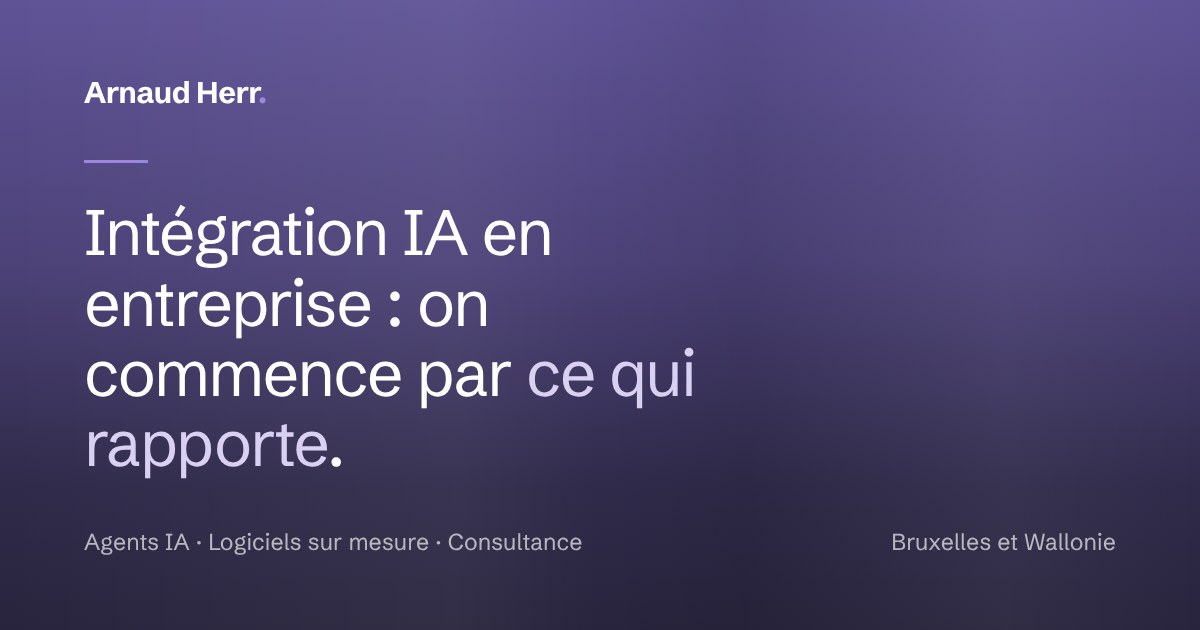
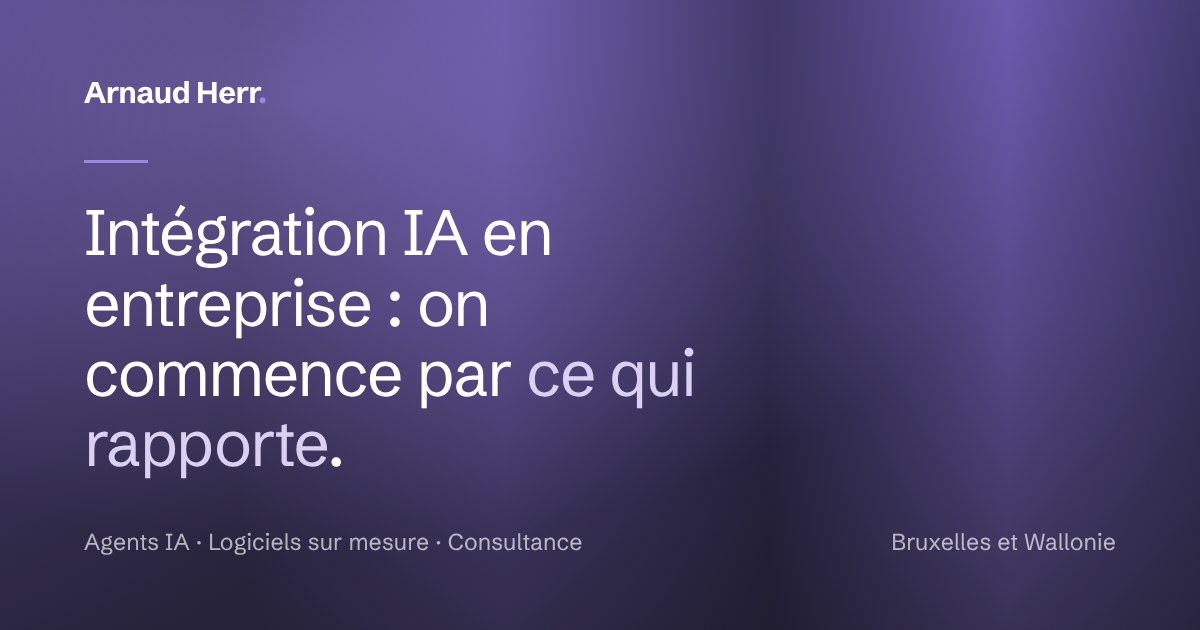
Publier master : dégradé de la publicité
Reprend l'arbre de master (d88abe4).

Claude-Session: https://claude.ai/code/session_01YBrAsT81dpjJmrzcXqB7eG

diff --git a/assets/site.css b/assets/site.css
@@ -30,31 +30,16 @@
     --brand-light:#FFFFFF;    /* texte et éléments sur fond sombre */
     --brand-on-accent:var(--brand-light); /* texte posé sur l'accent, à passer en sombre si l'accent est clair */
     --brand-shade:#201F27;    /* voile posé sur les photos */
-    /* dégradé des en-têtes de page, repris de la publicité magazine :
-       violet en haut, encre en bas, deux reflets verticaux discrets.
-       --brand-hero-top est sa teinte la plus claire : l'audit de contraste
-       ne lit que les couleurs unies, il mesure donc contre celle-ci. */
-    --brand-hero-top:#5F5396;
-    --grad-reflets:linear-gradient(90deg,transparent 0%,rgb(255 255 255/.045) 38%,transparent 50%,rgb(0 0 0/.07) 62%,rgb(255 255 255/.04) 84%,transparent 100%);
-    /* v1 : vertical, celui de la publicite */
-    --brand-hero:var(--grad-reflets),linear-gradient(180deg,var(--brand-hero-top) 0%,#4C4278 42%,#2F2A49 78%,#28243D 100%);
-    /* Variantes : les quatre teintes de la publicite, rien d'autre. Seule
-       la forme change (halos places differemment) pour que le fond ait l'air
-       organique d'un endroit a l'autre. Aucune ne monte plus clair que
-       --brand-hero-top, ce qui garde les contrastes. */
-    --v-clair:var(--brand-hero-top);--v-moyen:#4C4278;--v-sombre:#2F2A49;--v-nuit:#28243D;
-    --grad-v2:var(--grad-reflets),radial-gradient(70% 60% at 15% 8%,var(--v-clair),transparent 70%),
-              linear-gradient(135deg,var(--v-moyen) 0%,var(--v-sombre) 55%,var(--v-nuit) 100%);
-    --grad-v3:radial-gradient(80% 90% at 92% 0%,var(--v-clair),transparent 66%),
-              radial-gradient(60% 50% at 6% 100%,var(--v-moyen),transparent 70%),
-              linear-gradient(180deg,var(--v-sombre),var(--v-nuit));
-    --grad-v4:radial-gradient(55% 70% at 0% 100%,var(--v-clair),transparent 70%),
-              radial-gradient(50% 45% at 86% 12%,var(--v-moyen),transparent 72%),
-              linear-gradient(160deg,var(--v-sombre),var(--v-nuit));
-    --grad-v5:var(--grad-reflets),linear-gradient(0deg,var(--v-clair) 0%,var(--v-moyen) 40%,var(--v-sombre) 76%,var(--v-nuit) 100%);
-    --grad-v6:radial-gradient(85% 70% at 34% 46%,var(--v-clair),transparent 70%),
-              radial-gradient(42% 42% at 92% 92%,var(--v-moyen),transparent 72%),
-              linear-gradient(200deg,var(--v-sombre),var(--v-nuit));
+    /* Dégradé de la publicité magazine, recette exacte : une lueur lavande,
+       un assombrissement vers le bas, des bandes violettes verticales.
+       Les variantes data-fond ne déplacent que la lueur, l'angle et le
+       décalage des bandes : mêmes couleurs partout, forme différente. */
+    --ah-lx:25%;--ah-ly:15%;--ah-angle:90deg;--ah-largeur:100%;--ah-decalage:0%;
+    --brand-hero-top:#2F2950; /* couleur de secours de la publicité */
+    --brand-hero:
+      radial-gradient(ellipse at var(--ah-lx) var(--ah-ly),rgb(155 135 224/.45),rgb(155 135 224/0) 60%),
+      linear-gradient(180deg,rgb(23 22 28/0) 0%,rgb(23 22 28/.25) 50%,rgb(23 22 28/.6) 100%),
+      linear-gradient(var(--ah-angle),#4A3F7A 0%,#3B3360 20%,#5B4D96 42%,#2F2950 64%,#6B5BAE 84%,#433A70 100%);
     /* dégradé du bas de hero, repris tel quel de la référence.
        Remplacer #000 par une autre teinte pour le colorer. */
     --hero-overlay:linear-gradient(to top,#000,#000000fa 9.99%,#000000ec 19.07%,#000000d7 27.44%,#000000bd 35.26%,#0000009f 42.72%,#00000080,#00000060 57.28%,#00000042 64.74%,#00000028 72.56%,#00000013 80.93%,#00000005 90.01%,#0000);
@@ -1118,18 +1103,27 @@
   .page-hero .date-art time{color:var(--on-dark-88)}
 
   /* ---------- FONDS EN DEGRADE ----------
-     data-fond choisit la variante d'un en-tete ou d'un panneau. Les photos
-     ont ete retirees : ces panneaux les remplacent. Memes couleurs
-     partout, seule la forme varie. Le fond uni reste
-     --brand-hero-top sur les variantes sombres, pour que l'audit de
-     contraste mesure le pire cas. */
-  [data-fond]{background-color:var(--brand-hero-top)}
-  [data-fond="v1"]{background-image:var(--brand-hero)}
-  [data-fond="v2"]{background-image:var(--grad-v2)}
-  [data-fond="v3"]{background-image:var(--grad-v3)}
-  [data-fond="v4"]{background-image:var(--grad-v4)}
-  [data-fond="v5"]{background-image:var(--grad-v5)}
-  [data-fond="v6"]{background-image:var(--grad-v6)}
+     data-fond choisit la variante d'un en-tete ou d'un panneau (les photos
+     ont ete retirees). Les variables sont posees sur l'element lui-meme
+     pour que --brand-hero, calcule a la racine, ne les fige pas : d'ou la
+     recette repetee ici. Le contraste reel des textes sur ces fonds est
+     verifie par tools/contraste-degrades.js, qui mesure les pixels. */
+  [data-fond]{
+    background-color:var(--brand-hero-top);
+    background-image:
+      radial-gradient(ellipse at var(--ah-lx) var(--ah-ly),rgb(155 135 224/.45),rgb(155 135 224/0) 60%),
+      linear-gradient(180deg,rgb(23 22 28/0) 0%,rgb(23 22 28/.25) 50%,rgb(23 22 28/.6) 100%),
+      linear-gradient(var(--ah-angle),#4A3F7A 0%,#3B3360 20%,#5B4D96 42%,#2F2950 64%,#6B5BAE 84%,#433A70 100%);
+    background-size:100% 100%,100% 100%,var(--ah-largeur) 100%;
+    background-position:0 0,0 0,var(--ah-decalage) 0;
+  }
+  [data-fond="v1"]{--ah-lx:25%;--ah-ly:15%;--ah-angle:90deg;--ah-largeur:100%;--ah-decalage:0%}
+  [data-fond="v2"]{--ah-lx:78%;--ah-ly:8%;--ah-angle:90deg;--ah-largeur:150%;--ah-decalage:30%}
+  [data-fond="v3"]{--ah-lx:12%;--ah-ly:88%;--ah-angle:100deg;--ah-largeur:130%;--ah-decalage:70%}
+  [data-fond="v4"]{--ah-lx:58%;--ah-ly:38%;--ah-angle:80deg;--ah-largeur:170%;--ah-decalage:100%}
+  [data-fond="v5"]{--ah-lx:90%;--ah-ly:78%;--ah-angle:90deg;--ah-largeur:140%;--ah-decalage:50%}
+  [data-fond="v6"]{--ah-lx:40%;--ah-ly:5%;--ah-angle:95deg;--ah-largeur:200%;--ah-decalage:20%}
+
   /* Sur les panneaux en degrade, les textes secondaires passent a 88 % :
      a 70 %, ils ne tenaient pas le contraste sur la teinte la plus claire. */
   .mani footer,.mani footer a,.cta-in p{color:var(--on-dark-88)}

diff --git a/tools/contraste-degrades.js b/tools/contraste-degrades.js
@@ -1,0 +1,94 @@
+#!/usr/bin/env node
+/* Contraste des textes poses sur les fonds en degrade (data-fond).
+
+   tools/contraste.js ne lit que les couleurs de fond unies : il ne voit pas
+   les degrades. Ce script mesure les vrais pixels. Pour chaque bloc
+   data-fond, il masque les textes, photographie le fond, puis compare la
+   couleur de chaque texte au pixel LE PLUS CLAIR derriere lui (pire cas).
+
+     npx http-server . -p 8099 -s &
+     NODE_PATH=/opt/node22/lib/node_modules node tools/contraste-degrades.js
+
+   Seuils AA : 4,5 pour le texte courant, 3 pour le texte large (24 px, ou
+   18,66 px en gras). Les boutons, qui ont leur propre fond, sont ignores. */
+const { chromium } = require('playwright');
+const PAGES = require('fs').readFileSync(__dirname + '/contraste.js', 'utf8')
+  .match(/const PAGES=\[([^\]]*)\]/)[1].split(',').map(s => s.trim().replace(/'/g, '')).filter(Boolean);
+const BASE = 'http://localhost:8099/';
+
+function lum([r, g, b]) {
+  const f = c => (c /= 255) <= 0.03928 ? c / 12.92 : ((c + 0.055) / 1.055) ** 2.4;
+  return 0.2126 * f(r) + 0.7152 * f(g) + 0.0722 * f(b);
+}
+const ratio = (a, b) => { const [x, y] = [lum(a), lum(b)].sort((m, n) => n - m); return (x + 0.05) / (y + 0.05); };
+
+(async () => {
+  const b = await chromium.launch();
+  const p = await b.newPage({ viewport: { width: 1280, height: 900 }, deviceScaleFactor: 1 });
+  let echecs = 0;
+  const { PNG } = require('pngjs');
+  for (const path of PAGES) {
+    await p.goto(BASE + path, { waitUntil: 'load' });
+    await p.addStyleTag({ content: '*,*::before,*::after{transition:none!important;animation:none!important}[data-rv]{opacity:1!important;transform:none!important;filter:none!important}' });
+    const nb = await p.evaluate(() => document.querySelectorAll('[data-fond]').length);
+    const lignes = [];
+    for (let bi = 0; bi < nb; bi++) {
+      // Bloc amene dans la fenetre, textes releves puis masques : rien n'est
+      // redimensionne, la mise en page reste celle qui est mesuree.
+      const textes = await p.evaluate(bi => {
+        const bloc = document.querySelectorAll('[data-fond]')[bi];
+        bloc.scrollIntoView({ block: 'start' });
+        const out = [], walker = document.createTreeWalker(bloc, NodeFilter.SHOW_TEXT);
+        let n;
+        while ((n = walker.nextNode())) {
+          if (!n.textContent.trim()) continue;
+          const el = n.parentElement;
+          if (el.closest('.btn,svg,[hidden]')) continue;
+          const cs = getComputedStyle(el), r = document.createRange();
+          r.selectNodeContents(n);
+          for (const box of r.getClientRects()) {
+            if (!box.width || !box.height) continue;
+            out.push({ texte: n.textContent.trim().slice(0, 40), couleur: cs.color,
+              taille: parseFloat(cs.fontSize), gras: parseInt(cs.fontWeight) >= 700,
+              x: box.left, y: box.top, w: box.width, h: box.height });
+          }
+        }
+        bloc.querySelectorAll('*').forEach(e => {
+          e.dataset.c = '1'; e.style.setProperty('color', 'transparent', 'important');
+          e.style.setProperty('border-color', 'transparent', 'important');
+          e.style.setProperty('text-decoration-color', 'transparent', 'important');
+          e.style.setProperty('background-image', 'none', 'important');
+        });
+        bloc.querySelectorAll('.btn,img,svg').forEach(e => e.style.setProperty('visibility', 'hidden', 'important'));
+        return out;
+      }, bi);
+      const img = PNG.sync.read(await p.screenshot());
+      for (const t of textes) {
+        let clair = null, lmax = -1;
+        for (let y = Math.max(0, Math.floor(t.y)); y < Math.min(img.height, t.y + t.h); y += 2)
+          for (let x = Math.max(0, Math.floor(t.x)); x < Math.min(img.width, t.x + t.w); x += 2) {
+            const k = (y * img.width + x) * 4, px = [img.data[k], img.data[k + 1], img.data[k + 2]], l = lum(px);
+            if (l > lmax) { lmax = l; clair = px; }
+          }
+        if (!clair) continue;
+        // rgb(255, 255, 255) ou color(srgb 1 1 1 / 0.88) : la seconde forme
+        // exprime les canaux entre 0 et 1
+        const m = t.couleur.match(/[\d.]+/g).map(Number);
+        const a = m.length > 3 ? m[3] : 1;
+        if (t.couleur.startsWith('color(')) for (let k = 0; k < 3; k++) m[k] *= 255;
+        const fg = [0, 1, 2].map(k => Math.round(m[k] * a + clair[k] * (1 - a)));
+        const r = ratio(fg, clair), seuil = (t.taille >= 24 || (t.gras && t.taille >= 18.66)) ? 3 : 4.5;
+        if (r < seuil) lignes.push(`  ${r.toFixed(2)} au lieu de ${seuil} : ${t.taille}px "${t.texte}"`);
+      }
+      // retablir le bloc avant le suivant
+      await p.evaluate(() => document.querySelectorAll('[data-c]').forEach(e => { e.removeAttribute('style'); delete e.dataset.c; }));
+    }
+    if (!nb) continue;
+    const uniques = [...new Set(lignes)];
+    console.log('/' + path + (uniques.length ? '' : '  tous les contrastes passent'));
+    uniques.forEach(l => console.log(l)); echecs += uniques.length;
+  }
+  await b.close();
+  console.log(`\n${echecs} echec(s) de contraste sur les degrades`);
+  process.exitCode = echecs ? 1 : 0;
+})();

diff --git a/tools/og.js b/tools/og.js
@@ -29,9 +29,10 @@ const HTML = `<!DOCTYPE html><html lang="fr"><head><meta charset="utf-8"><style>
     src:url(data:font/woff2;base64,${policeExt}) format('woff2');}
   *{margin:0;padding:0;box-sizing:border-box}
   body{width:1200px;height:630px;color:${CLAIR};
-    background-color:#5F5396;background-image:
-      linear-gradient(90deg,transparent 0%,rgb(255 255 255/.045) 38%,transparent 50%,rgb(0 0 0/.07) 62%,rgb(255 255 255/.04) 84%,transparent 100%),
-      linear-gradient(180deg,#5F5396 0%,#4C4278 42%,#2F2A49 78%,#28243D 100%);
+    background-color:#2F2950;background-image:
+      radial-gradient(ellipse at 25% 15%,rgb(155 135 224/.45),rgb(155 135 224/0) 60%),
+      linear-gradient(180deg,rgb(23 22 28/0) 0%,rgb(23 22 28/.25) 50%,rgb(23 22 28/.6) 100%),
+      linear-gradient(90deg,#4A3F7A 0%,#3B3360 20%,#5B4D96 42%,#2F2950 64%,#6B5BAE 84%,#433A70 100%);
     font-family:'SG','SGx',system-ui,sans-serif;-webkit-font-smoothing:antialiased;
     display:flex;flex-direction:column;justify-content:space-between;padding:74px 84px;}
   .marque{font-size:30px;font-weight:700;letter-spacing:-.015em}

diff --git a/contact/merci/index.html b/contact/merci/index.html
@@ -18,7 +18,7 @@
 <link rel="manifest" href="/site.webmanifest">
 
 <link rel="preload" href="../../assets/fonts/sg-latin.woff2" as="font" type="font/woff2" crossorigin>
-<link rel="stylesheet" href="../../assets/site.css?v=2026-11-06b">
+<link rel="stylesheet" href="../../assets/site.css?v=2026-11-06c">
 <!-- Mesure d'audience : Google Tag Manager, différé et soumis au consentement.
      Tout se règle dans assets/mesure.js, commun à toutes les pages. -->
 <script src="/assets/mesure.js" defer></script>
@@ -205,7 +205,7 @@
   </div>
 </footer>
 
-<script src="../../assets/site.js?v=2026-11-06b" defer></script>
+<script src="../../assets/site.js?v=2026-11-06c" defer></script>
 
 </body>
 </html>

diff --git a/pilotage-donnees/index.html b/pilotage-donnees/index.html
@@ -33,7 +33,7 @@
 <link rel="manifest" href="/site.webmanifest">
 
 <link rel="preload" href="../assets/fonts/sg-latin.woff2" as="font" type="font/woff2" crossorigin>
-<link rel="stylesheet" href="../assets/site.css?v=2026-11-06b">
+<link rel="stylesheet" href="../assets/site.css?v=2026-11-06c">
 <style>
   /* ==================================================================
      COULEURS DE LA PLATEFORME
@@ -604,7 +604,7 @@
   </div>
 </footer>
 
-<script src="../assets/site.js?v=2026-11-06b" defer></script>
+<script src="../assets/site.js?v=2026-11-06c" defer></script>
 
 </body>
 </html>

diff --git a/articles/agence-ia-ou-consultant-independant/index.html b/articles/agence-ia-ou-consultant-independant/index.html
@@ -33,7 +33,7 @@
 <link rel="manifest" href="/site.webmanifest">
 
 <link rel="preload" href="../../assets/fonts/sg-latin.woff2" as="font" type="font/woff2" crossorigin>
-<link rel="stylesheet" href="../../assets/site.css?v=2026-11-06b">
+<link rel="stylesheet" href="../../assets/site.css?v=2026-11-06c">
 <script type="application/ld+json">
 {
  "@context": "https://schema.org",
@@ -425,7 +425,7 @@
   </div>
 </footer>
 
-<script src="../../assets/site.js?v=2026-11-06b" defer></script>
+<script src="../../assets/site.js?v=2026-11-06c" defer></script>
 
 </body>
 </html>

diff --git a/articles/agent-ia-chatbot-ou-automatisation/index.html b/articles/agent-ia-chatbot-ou-automatisation/index.html
@@ -33,7 +33,7 @@
 <link rel="manifest" href="/site.webmanifest">
 
 <link rel="preload" href="../../assets/fonts/sg-latin.woff2" as="font" type="font/woff2" crossorigin>
-<link rel="stylesheet" href="../../assets/site.css?v=2026-11-06b">
+<link rel="stylesheet" href="../../assets/site.css?v=2026-11-06c">
 <script type="application/ld+json">
 {
  "@context": "https://schema.org",
@@ -431,7 +431,7 @@
   </div>
 </footer>
 
-<script src="../../assets/site.js?v=2026-11-06b" defer></script>
+<script src="../../assets/site.js?v=2026-11-06c" defer></script>
 
 </body>
 </html>

diff --git a/articles/agent-ia-odoo/index.html b/articles/agent-ia-odoo/index.html
@@ -33,7 +33,7 @@
 <link rel="manifest" href="/site.webmanifest">
 
 <link rel="preload" href="../../assets/fonts/sg-latin.woff2" as="font" type="font/woff2" crossorigin>
-<link rel="stylesheet" href="../../assets/site.css?v=2026-11-06b">
+<link rel="stylesheet" href="../../assets/site.css?v=2026-11-06c">
 <script type="application/ld+json">
 {
  "@context": "https://schema.org",
@@ -412,7 +412,7 @@
   </div>
 </footer>
 
-<script src="../../assets/site.js?v=2026-11-06b" defer></script>
+<script src="../../assets/site.js?v=2026-11-06c" defer></script>
 
 </body>
 </html>

diff --git a/articles/automatiser-reponses-clients-ia/index.html b/articles/automatiser-reponses-clients-ia/index.html
@@ -33,7 +33,7 @@
 <link rel="manifest" href="/site.webmanifest">
 
 <link rel="preload" href="../../assets/fonts/sg-latin.woff2" as="font" type="font/woff2" crossorigin>
-<link rel="stylesheet" href="../../assets/site.css?v=2026-11-06b">
+<link rel="stylesheet" href="../../assets/site.css?v=2026-11-06c">
 <script type="application/ld+json">
 {
  "@context": "https://schema.org",
@@ -428,7 +428,7 @@
   </div>
 </footer>
 
-<script src="../../assets/site.js?v=2026-11-06b" defer></script>
+<script src="../../assets/site.js?v=2026-11-06c" defer></script>
 
 </body>
 </html>

diff --git a/articles/brancher-un-mcp-sur-wordpress/index.html b/articles/brancher-un-mcp-sur-wordpress/index.html
@@ -33,7 +33,7 @@
 <link rel="manifest" href="/site.webmanifest">
 
 <link rel="preload" href="../../assets/fonts/sg-latin.woff2" as="font" type="font/woff2" crossorigin>
-<link rel="stylesheet" href="../../assets/site.css?v=2026-11-06b">
+<link rel="stylesheet" href="../../assets/site.css?v=2026-11-06c">
 <script type="application/ld+json">
 {
  "@context": "https://schema.org",
@@ -425,7 +425,7 @@
   </div>
 </footer>
 
-<script src="../../assets/site.js?v=2026-11-06b" defer></script>
+<script src="../../assets/site.js?v=2026-11-06c" defer></script>
 
 </body>
 </html>

diff --git a/articles/classer-renommer-documents-ocr-ia/index.html b/articles/classer-renommer-documents-ocr-ia/index.html
@@ -33,7 +33,7 @@
 <link rel="manifest" href="/site.webmanifest">
 
 <link rel="preload" href="../../assets/fonts/sg-latin.woff2" as="font" type="font/woff2" crossorigin>
-<link rel="stylesheet" href="../../assets/site.css?v=2026-11-06b">
+<link rel="stylesheet" href="../../assets/site.css?v=2026-11-06c">
 <script type="application/ld+json">
 {
  "@context": "https://schema.org",
@@ -440,7 +440,7 @@
   </div>
 </footer>
 
-<script src="../../assets/site.js?v=2026-11-06b" defer></script>
+<script src="../../assets/site.js?v=2026-11-06c" defer></script>
 
 </body>
 </html>

diff --git a/articles/combien-coute-une-automatisation-ia/index.html b/articles/combien-coute-une-automatisation-ia/index.html
@@ -33,7 +33,7 @@
 <link rel="manifest" href="/site.webmanifest">
 
 <link rel="preload" href="../../assets/fonts/sg-latin.woff2" as="font" type="font/woff2" crossorigin>
-<link rel="stylesheet" href="../../assets/site.css?v=2026-11-06b">
+<link rel="stylesheet" href="../../assets/site.css?v=2026-11-06c">
 <script type="application/ld+json">
 {
  "@context": "https://schema.org",
@@ -493,7 +493,7 @@
   </div>
 </footer>
 
-<script src="../../assets/site.js?v=2026-11-06b" defer></script>
+<script src="../../assets/site.js?v=2026-11-06c" defer></script>
 
 </body>
 </html>
